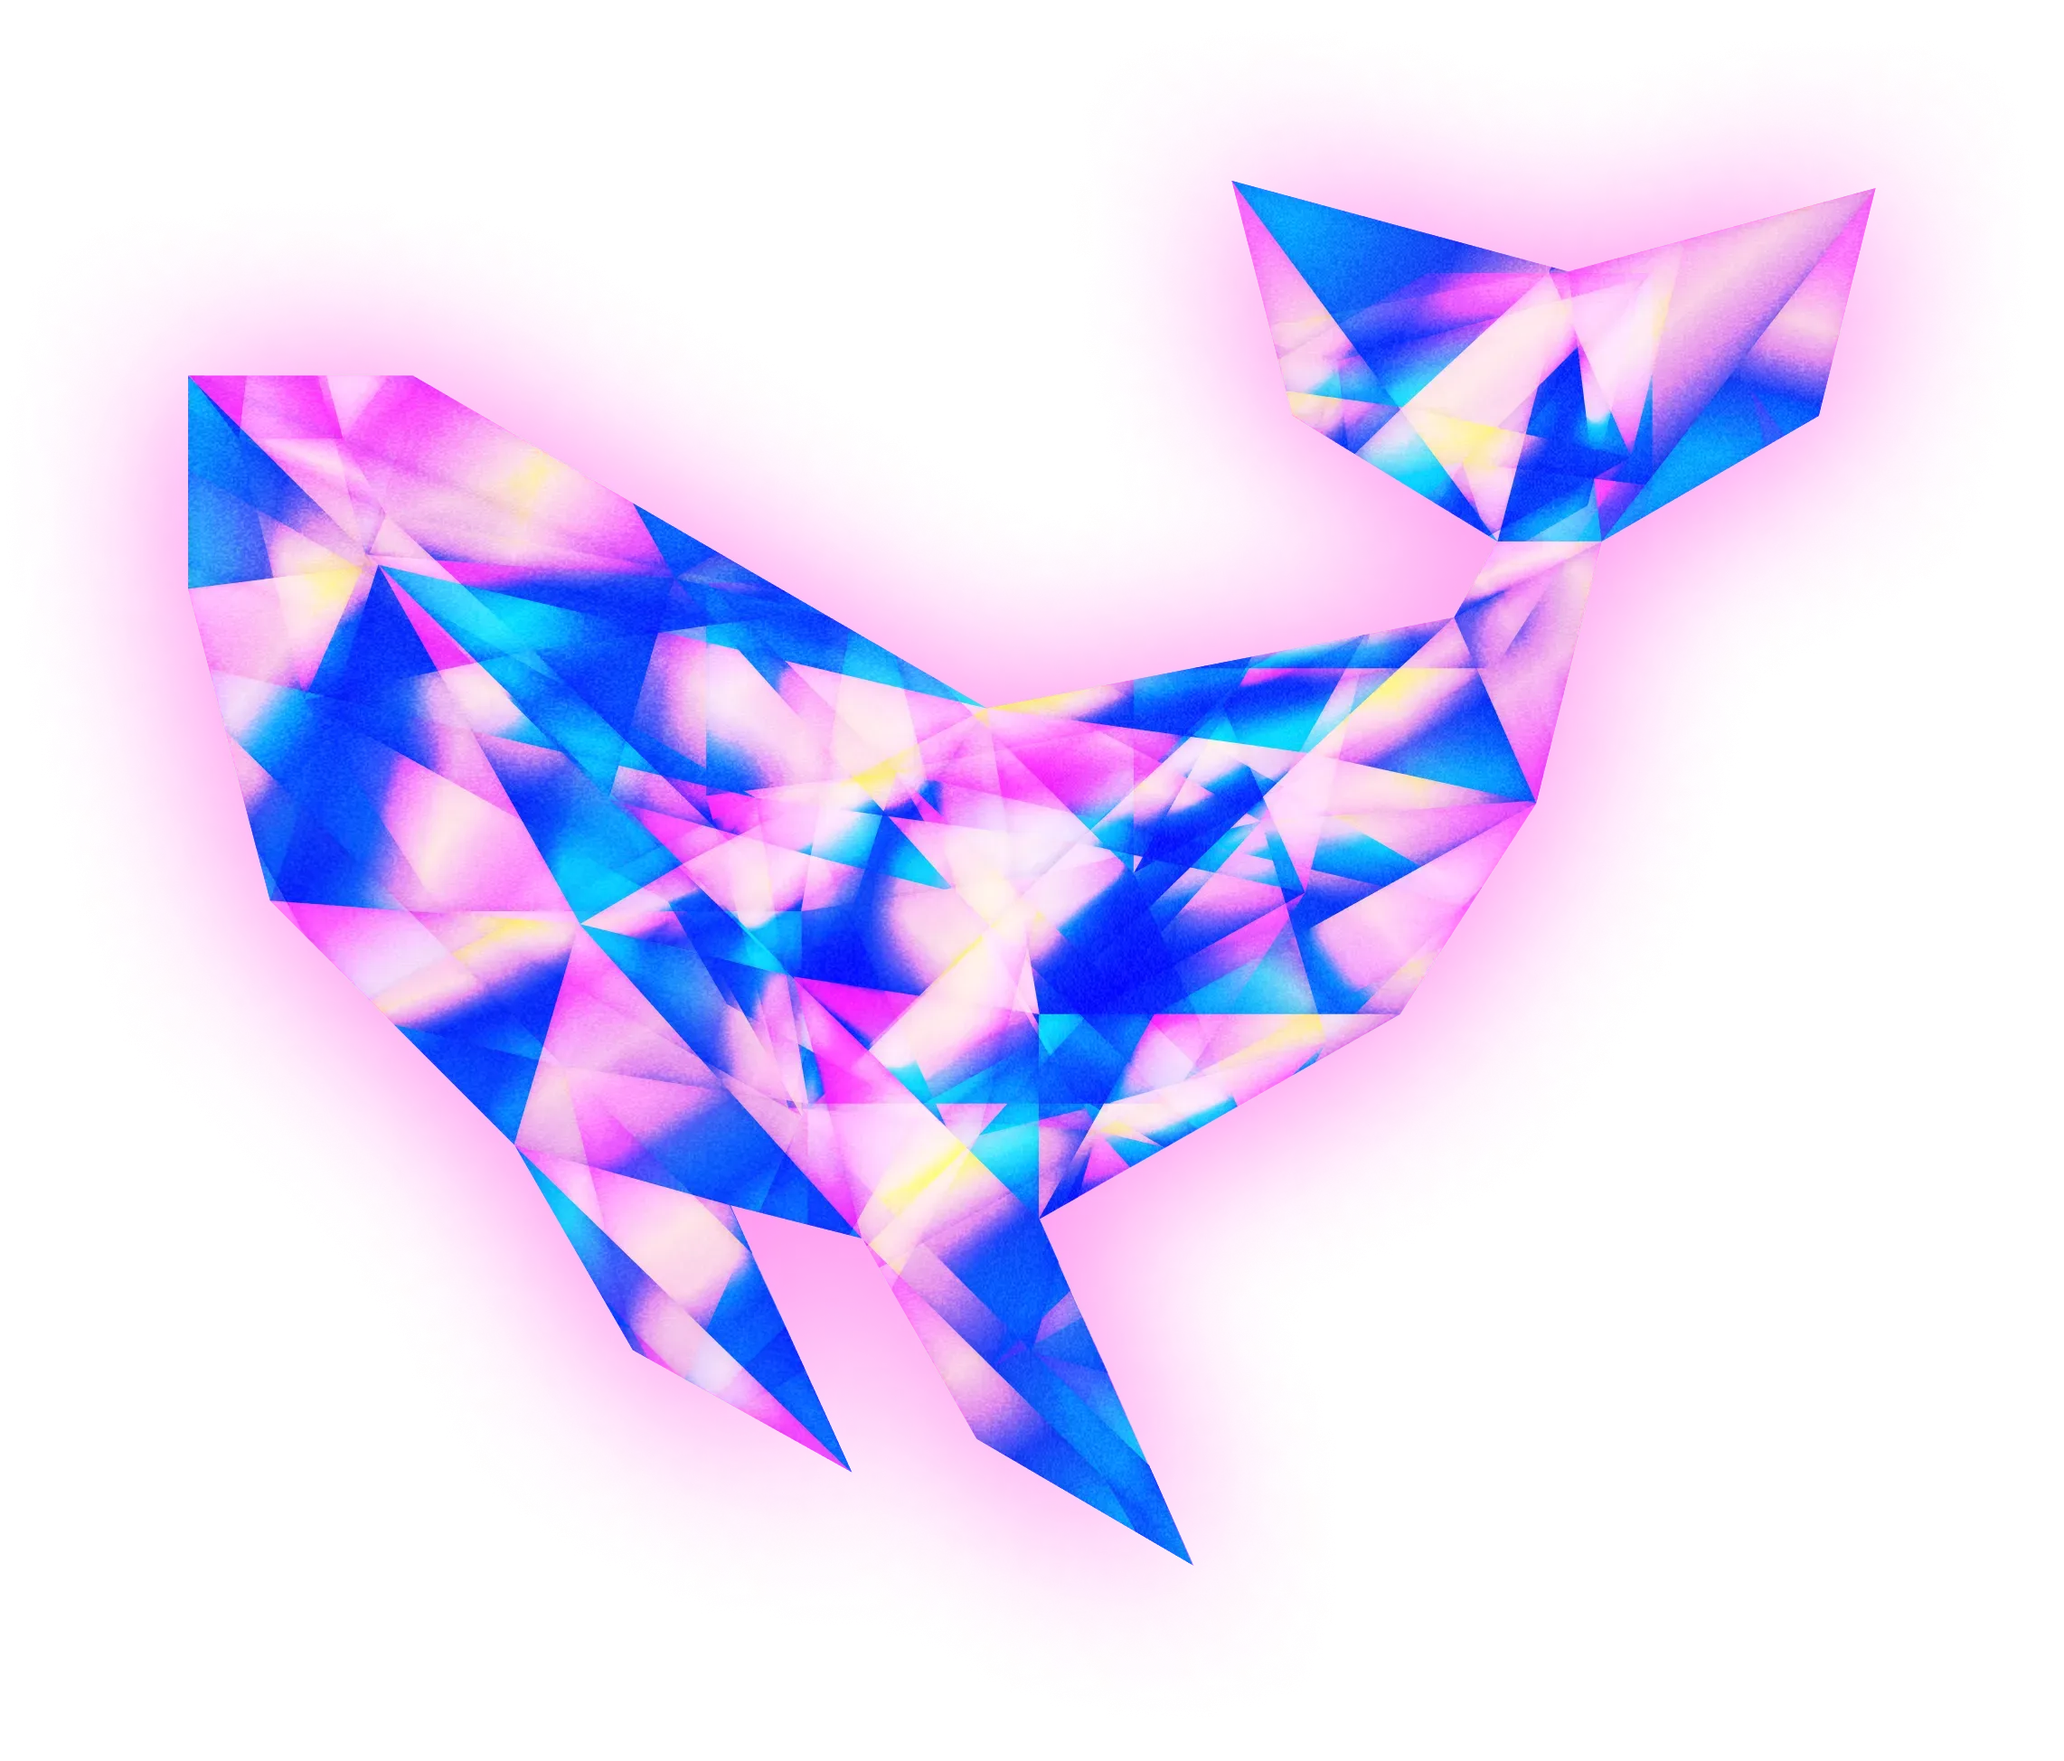
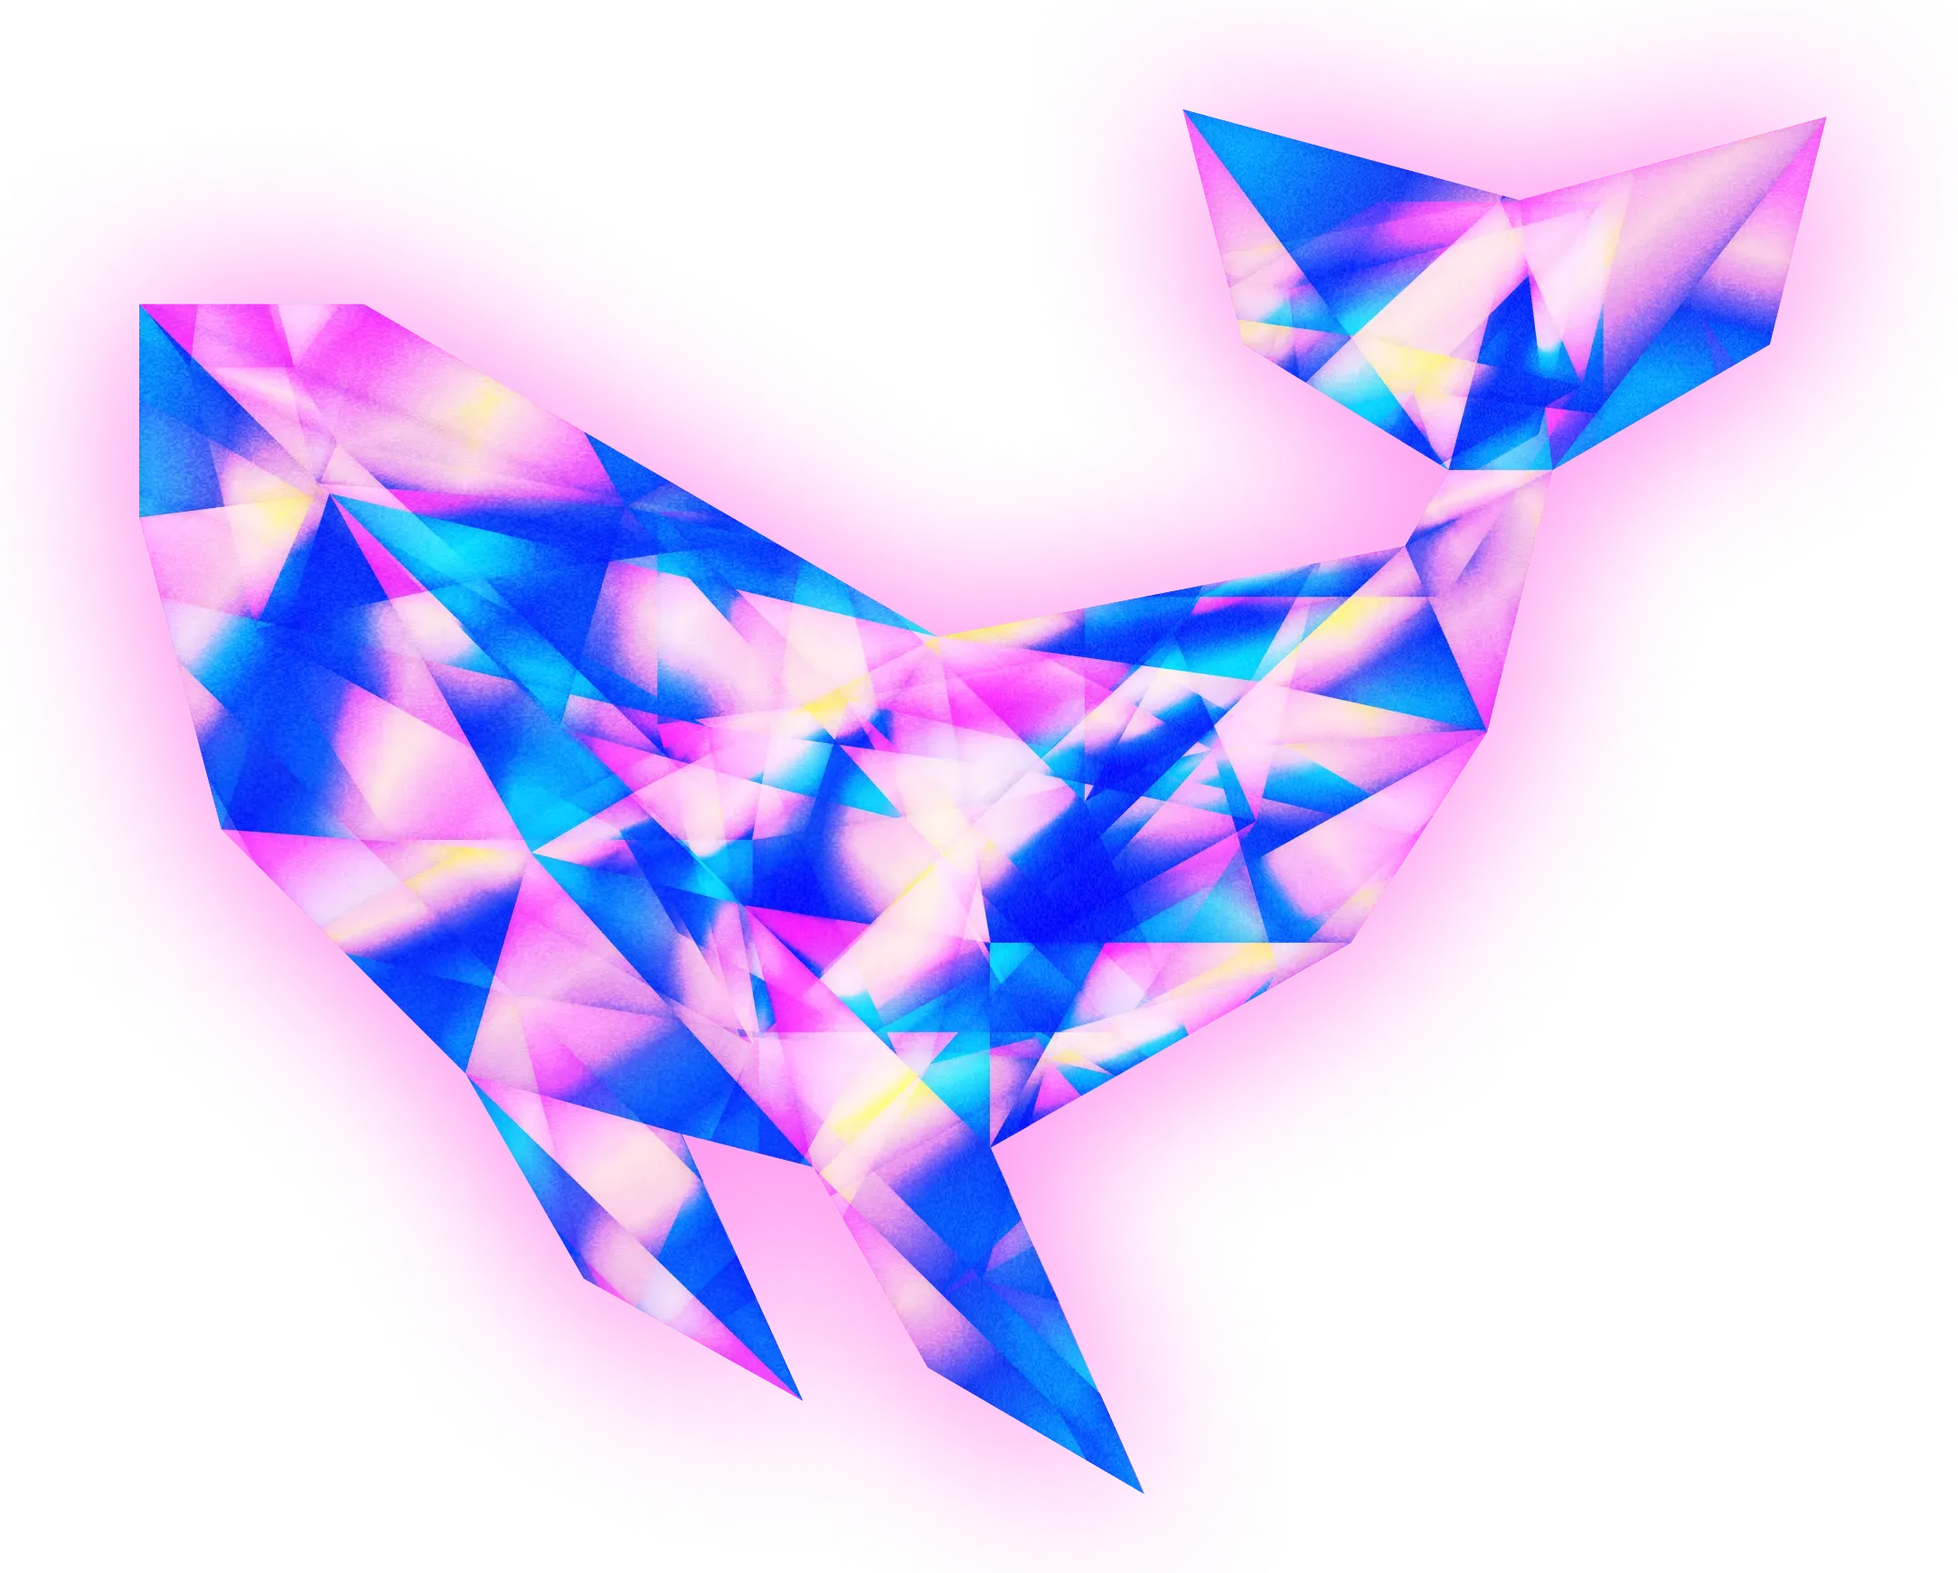
plain mobiles are done

Changed region(s): [[0.0619, 0.0621, 0.928, 0.9621]]

diff --git a/src/components/StartBlock.tsx b/src/components/StartBlock.tsx
@@ -1,32 +1,56 @@
 import { FoldText } from 'components/Text'
 import DownArrows from 'components/DownArrows'
 import classnames, {
+  alignItems,
   display,
   flexDirection,
+  height,
   inset,
   justifyContent,
+  margin,
+  maxWidth,
+  overflow,
   position,
+  scale,
   space,
+  width,
 } from 'classnames/tailwind'
 
-const futureTextWrapper = classnames(
-  position('absolute'),
+const wrapperBox = classnames(
+  position('relative'),
+  overflow('overflow-hidden'),
+  width('md:w-fit', 'w-screen')
+)
+const futureBoxWrapper = classnames(
+  position('md:absolute'),
   inset('-right-28', 'top-3/4')
 )
-const futureTextBox = classnames(
+const futureBox = classnames(
   display('flex'),
-  flexDirection('flex-row'),
+  flexDirection('md:flex-row', 'flex-col-reverse'),
+  alignItems('items-center'),
   justifyContent('justify-end'),
   space('space-x-4')
 )
-const textBlock = classnames(display('flex'), flexDirection('flex-col'))
+const textBlock = classnames(
+  display('flex'),
+  flexDirection('flex-col'),
+  alignItems('md:items-start', 'items-center')
+)
+const imageStyles = classnames(
+  height('sm:h-auto', 'h-max'),
+  maxWidth('md:max-w-full', 'max-w-2xl'),
+  overflow('overflow-clip'),
+  margin('md:m-0', 'ml-24'),
+  scale('md:scale-100', 'scale-125')
+)
 
 export default function () {
   return (
-    <div className={position('relative')}>
-      <img width="933" height="766" src="/img/colorful-whale.webp" />
-      <div className={futureTextWrapper}>
-        <div className={futureTextBox}>
+    <div className={wrapperBox}>
+      <img width="933" src="/img/colorful-whale.webp" className={imageStyles} />
+      <div className={futureBoxWrapper}>
+        <div className={futureBox}>
           <DownArrows />
           <div className={textBlock}>
             <FoldText>We’re building the future</FoldText>

diff --git a/src/index.css b/src/index.css
@@ -5,6 +5,13 @@
 html {
   background-color: #0d0030;
   overflow-x: hidden;
+  /* Grid */
+  background: conic-gradient(
+      from 90deg at 0.06rem 0.06rem,
+      #0d0030 90deg,
+      #1a0259 0
+    )
+    0 0/3rem 3rem;
 }
 body {
   margin: 0;
@@ -14,17 +21,11 @@ body {
   color: #efecd6;
   scroll-behavior: smooth;
   min-height: 100vh;
-  /* Grid */
-  background: conic-gradient(
-      from 90deg at 0.06rem 0.06rem,
-      #0d0030 90deg,
-      #1a0259 0
-    )
-    0 0/3rem 3rem;
+  width: 100vw;
 }
 /* Grid for mobiles */
 @media screen and (max-width: 600px) {
-  body {
+  html {
     background: conic-gradient(
         from 90deg at 0.06rem 0.06rem,
         #0d0030 90deg,
